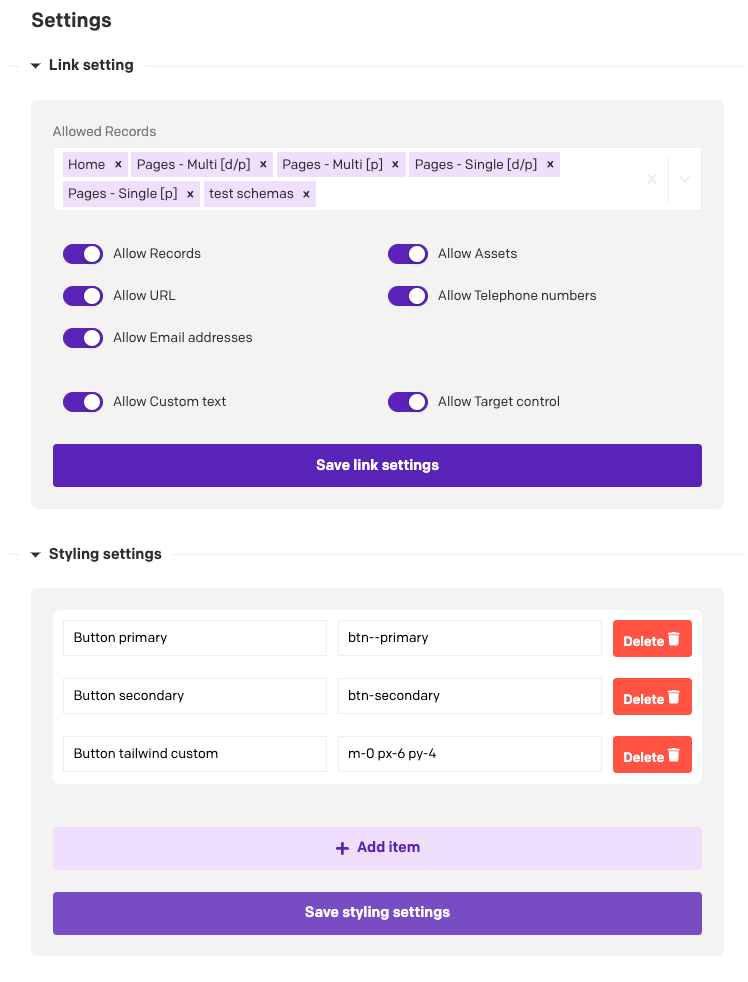
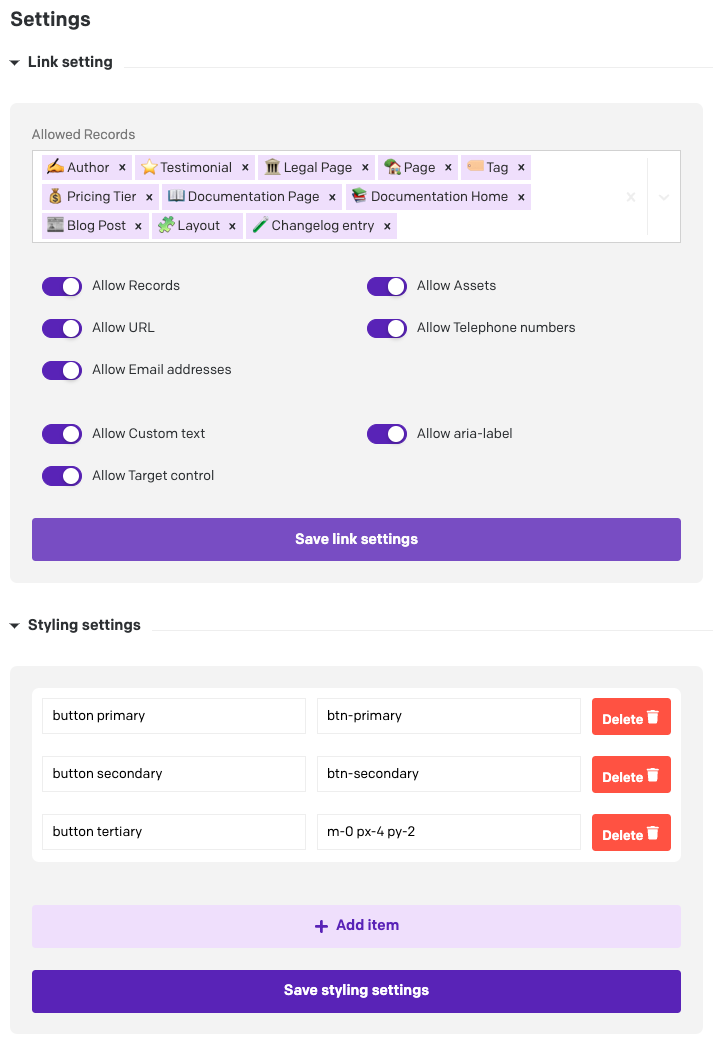
Chore: updated docs

diff --git a/src/entrypoints/PluginConfigScreen.tsx b/src/entrypoints/PluginConfigScreen.tsx
@@ -16,7 +16,14 @@ export default function PluginConfigScreen({ ctx }: Props) {
         <Canvas ctx={ctx}>
             <div className="content">
                 <p>Welcome to the "Better Linking" plugin!</p>
-                <p>This DatoCMS plugin allows you to easily create a complex link field, containing different link types (records, assets, URLs, email links, or telephone numbers), custom styling, control over the link target, and the ability to override the link text with a custom value.</p>
+                <p>This DatoCMS plugin allows you to easily create a complex link field, containing:</p>
+                <ul>
+                    <li>Different link types (records, assets, URLs, email links, or telephone numbers)</li>
+                    <li>Custom styling/link classes</li>
+                    <li>Custom link text overrides</li>
+                    <li>Aria-label text overrides</li>
+                    <li>Target window controls</li>
+                </ul>
             </div>
 
             <div>

diff --git a/README.md b/README.md
@@ -2,7 +2,13 @@
 
 # DatoCMS plugin: Better Linking
 Welcome to the `Better Linking` plugin!
-This DatoCMS plugin allows you to easily create a complex link field, containing different link types (records, assets, URLs, email links, or telephone numbers), custom styling, control over the link target, and the ability to override the link text with a custom value.
+This DatoCMS plugin allows you to easily create a complex link field, containing:
+- Different link types (records, assets, URLs, email links, or telephone numbers)
+- Custom styling/link classes
+- Custom link text overrides
+- Aria-label text overrides
+- Target window controls
+
 
 ![](https://raw.githubusercontent.com/ColinDorr/datocms-plugin-better-linking/main/docs/cover.png)
 
@@ -29,4 +35,4 @@ When using the plugin, a JSON data object will be generated with all the setting
 When querying the data of a `Better Linking` field, the whole JSON data object will be returned, containing all the data and selected options, allowing developers full access to the detailed information of the link.
 This might look a bit intimidating at first glance, but don't be scared. In the JSON data object, you will also find an object called `formatted`. This object contains a minimized representation of all link data. In most cases, this data will be more than enough to handle your links.
 
-![formatted response](https://raw.githubusercontent.com/ColinDorr/datocms-plugin-better-linking/main/docs/formatted-response.png)
+![formatted response](https://raw.githubusercontent.com/ColinDorr/datocms-plugin-better-linking/main/docs/graphql-response.png)
